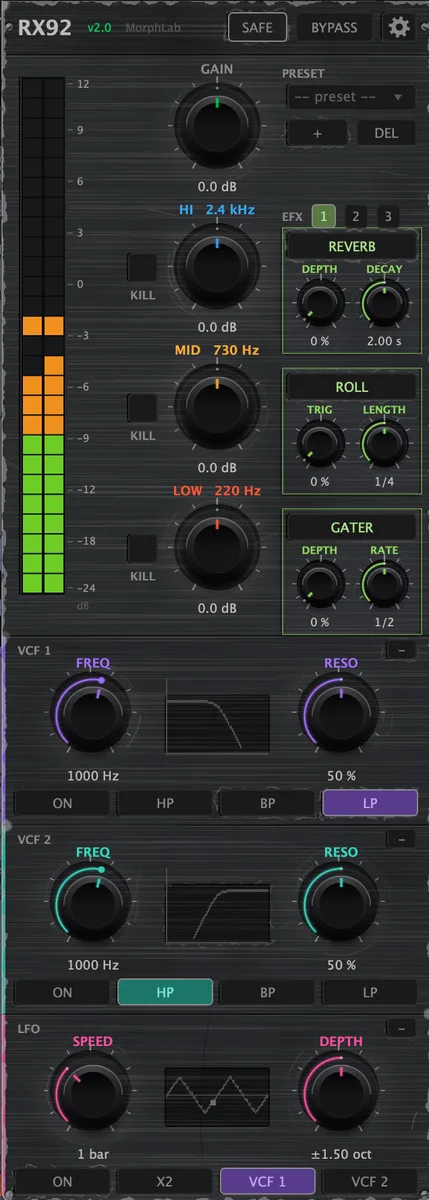
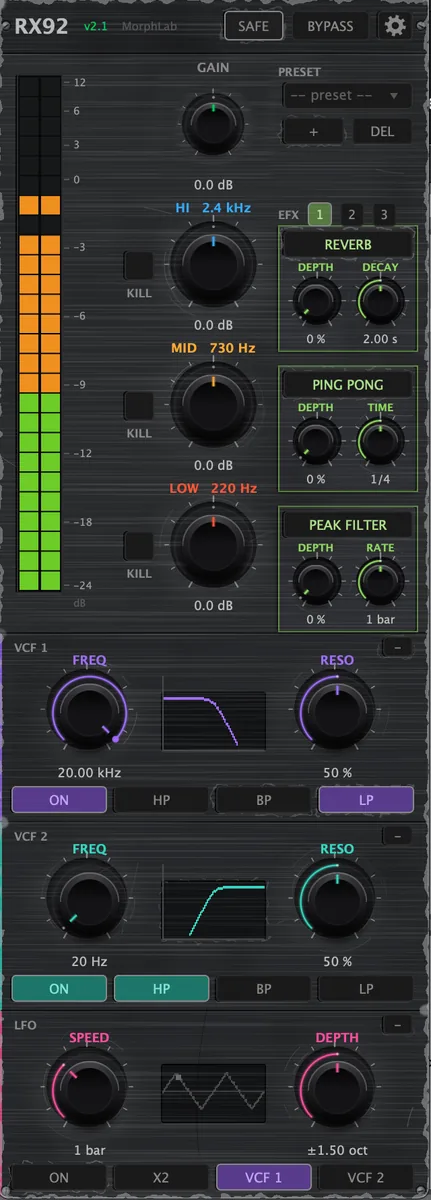
RX92 2.1: new version and screenshot
Claude-Session: https://claude.ai/code/session_0136ktPbpLuXFnaANBmJceU1

diff --git a/index.html b/index.html
@@ -228,7 +228,7 @@ const PRODUCTS = [
   { id:"morphalign", file:"MorPhalign", name:"MorPhalign", version:"3.1", group:"plugins",
     tag:"Sidechain phase alignment",
     text:"Aligns one track to another through the sidechain, so kick and bass sum with the least cancellation. Four engines — Rotate, Multiband, Match and Match LF — on one big knob." },
-  { id:"rx92", file:"RX92", name:"RX92", version:"2.0", group:"plugins",
+  { id:"rx92", file:"RX92", name:"RX92", version:"2.1", group:"plugins",
     tag:"DJ channel strip",
     text:"A club-style channel strip for live sets: 3-band EQ with kill, two series filters with a tempo-synced LFO and three effect slots. Zero latency, every control mappable to your controller." },
   { id:"morphcontrolxl", file:"MorphControl-XL", name:"MorphControl XL", version:"1.2", group:"tools",
